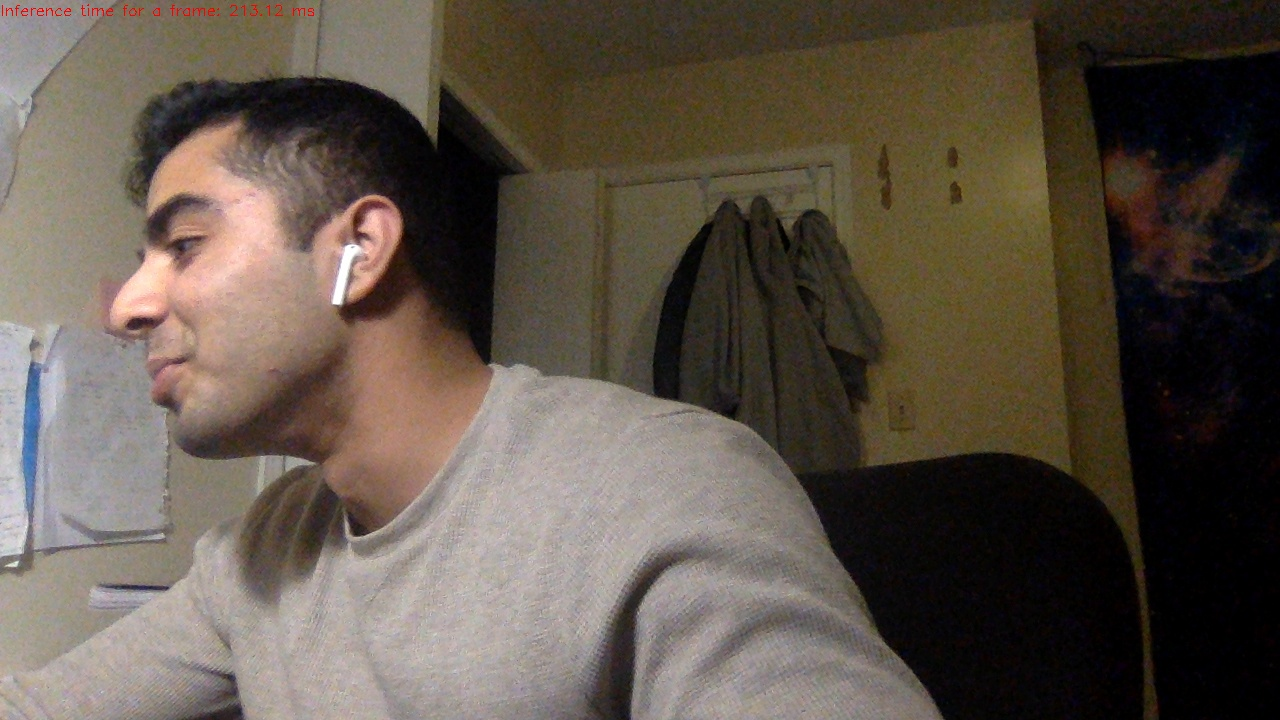
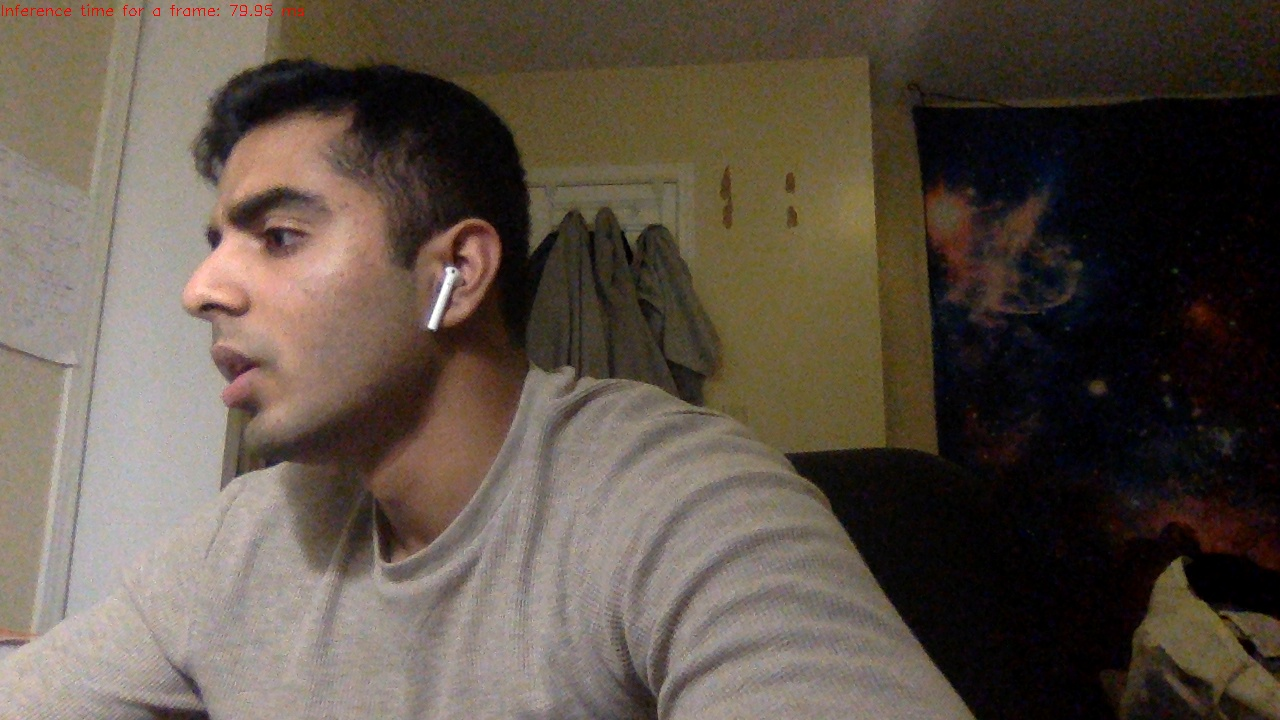
Fixing labels, Models works 100%

diff --git a/model/ModelOutput.cpp b/model/ModelOutput.cpp
@@ -6,64 +6,59 @@ using namespace std;
 
 ModelOutput::ModelOutput(/* args */)
 {
-    float confThreshold = 0.5;
-    float nmsThreshold = 0.4;
-    int inpWidth = 416;
-    int inpHeight = 416;
-    string classesFile = "./yolo/coco.names";
-    vector<string> classes;
+    confThreshold = 0.3;
+    nmsThreshold = 0.3;
+    inpWidth = 416;
+    inpHeight = 416;
+    classesFile = "/Users/msinghal/team9/model/yolo/coco.names";
+    classes;
 
     ifstream ifs(classesFile.c_str());
-    string line;
+    line;
     while (getline(ifs, line))
     {
         classes.push_back(line);
     }
-    string modelConfiguration = "/Users/msinghal/team9/model/yolo/yolov3-tiny.cfg";
-    string modelWeights = "/Users/msinghal/team9/model/yolo/yolov3-tiny.weights";
+    modelConfiguration = "/Users/msinghal/team9/model/yolo/yolov3-tiny.cfg";
+    modelWeights = "/Users/msinghal/team9/model/yolo/yolov3-tiny.weights";
 
     //Network
-    Net net = readNetFromDarknet(modelConfiguration, modelWeights);
+    net = readNetFromDarknet(modelConfiguration, modelWeights);
     net.setPreferableBackend(DNN_BACKEND_OPENCV);
     net.setPreferableTarget(DNN_TARGET_CPU);
-
-    string str, outputFile;
-    Mat frame, blob;
-
-    // while (waitKey(1) < 0)
-    // {
-    frame = imread("./test.jpg");
-    if (!(frame.empty()))
-    {
-        outputFile = "outFile.jpg";
-        blobFromImage(frame, blob, 1 / 255.0, CvSize(inpWidth, inpHeight), Scalar(0, 0, 0), true, false);
-        net.setInput(blob);
-        vector<Mat> outs;
-        net.forward(outs, ModelOutput::getOutputsNames(net));
-
-        ModelOutput::postprocess(frame, outs);
-
-        vector<double> layersTimes;
-        double freq = getTickFrequency() / 1000;
-        double t = net.getPerfProfile(layersTimes) / freq;
-        string label = format("Inference time for a frame: %.2f ms", t);
-        putText(frame, label, Point(0, 15), FONT_HERSHEY_SIMPLEX, 0.5, Scalar(0, 0, 255));
-
-        Mat detectedFrame;
-        frame.convertTo(detectedFrame, CV_8U);
-        imwrite(outputFile, detectedFrame);
-        cout << "Wrote model output to file" << endl;
-    }
-    // }
 }
 
 ModelOutput::~ModelOutput()
 {
 }
 
-// ModelOutput::run()
-// {
-// }
+void ModelOutput::run(Mat inpFrame, Mat *outFrame)
+{
+    string str, outputFile;
+    Mat frame, blob;
+    frame = inpFrame;
+    if (!(frame.empty()))
+    {
+        // outputFile = "outFile.jpg";
+        blobFromImage(frame, blob, 1 / 255.0, CvSize(this->inpWidth, this->inpHeight), Scalar(0, 0, 0), true, false);
+        net.setInput(blob);
+        vector<Mat> outs;
+        net.forward(outs, ModelOutput::getOutputsNames(this->net));
+
+        ModelOutput::postprocess(frame, outs);
+
+        vector<double> layersTimes;
+        double freq = getTickFrequency() / 1000;
+        double t = (this->net).getPerfProfile(layersTimes) / freq;
+        string label = format("Inference time for a frame: %.2f ms", t);
+        putText(frame, label, Point(0, 15), FONT_HERSHEY_SIMPLEX, 0.5, Scalar(0, 0, 255));
+
+        // Mat detectedFrame;
+        frame.convertTo(*outFrame, CV_8U);
+        // imwrite(outputFile, *outFrame);
+        cout << "Wrote model output to file" << endl;
+    }
+}
 
 vector<String> ModelOutput::getOutputsNames(const Net &net)
 {
@@ -71,10 +66,10 @@ vector<String> ModelOutput::getOutputsNames(const Net &net)
     if (names.empty())
     {
         //Get the indices of the output layers, i.e. the layers with unconnected outputs
-        vector<int> outLayers = net.getUnconnectedOutLayers();
+        vector<int> outLayers = (this->net).getUnconnectedOutLayers();
 
         //get the names of all the layers in the network
-        vector<String> layersNames = net.getLayerNames();
+        vector<string> layersNames = (this->net).getLayerNames();
 
         // Get the names of the output layers in names
         names.resize(outLayers.size());
@@ -105,7 +100,7 @@ void ModelOutput::postprocess(Mat &frame, const vector<Mat> &outs)
             double confidence;
             // Get the value and location of the maximum score
             minMaxLoc(scores, 0, &confidence, 0, &classIdPoint);
-            if (confidence > confThreshold)
+            if (confidence > this->confThreshold)
             {
                 int centerX = (int)(data[0] * frame.cols);
                 int centerY = (int)(data[1] * frame.rows);
@@ -124,7 +119,7 @@ void ModelOutput::postprocess(Mat &frame, const vector<Mat> &outs)
     // Perform non maximum suppression to eliminate redundant overlapping boxes with
     // lower confidences
     vector<int> indices;
-    NMSBoxes(boxes, confidences, confThreshold, nmsThreshold, indices);
+    NMSBoxes(boxes, confidences, this->confThreshold, this->nmsThreshold, indices);
     for (size_t i = 0; i < indices.size(); ++i)
     {
         int idx = indices[i];
@@ -141,10 +136,10 @@ void ModelOutput::drawPred(int classId, float conf, int left, int top, int right
 
     //Get the label for the class name and its confidence
     string label = format("%.2f", conf);
-    if (!classes.empty())
+    if (!(this->classes).empty())
     {
-        CV_Assert(classId < (int)classes.size());
-        label = classes[classId] + ":" + label;
+        CV_Assert(classId < (int)(this->classes).size());
+        label = (this->classes)[classId] + ":" + label;
     }
 
     //Display the label at the top of the bounding box

diff --git a/controller/FeedController.cpp b/controller/FeedController.cpp
@@ -23,6 +23,7 @@ FeedController::FeedController()
 {
     VideoCapture feedCV;
     Mat frame;
+    Mat outFrame;
 
     internalThread = new thread(&FeedController::updateFeedThread, this);
 }
@@ -36,7 +37,7 @@ FeedController::~FeedController()
 
 cv::Mat FeedController::getFeed()
 {
-    return this->frame;
+    return this->outFrame;
 }
 
 void FeedController::updateFeedThread()
@@ -45,6 +46,7 @@ void FeedController::updateFeedThread()
     if (!feedCV.open(0))
         exit(-1);
 
+    ModelOutput model = ModelOutput();
     for (;;)
     {
 
@@ -57,9 +59,8 @@ void FeedController::updateFeedThread()
         //std::cout << fps<< std::endl;
         //imshow("Say Cheese!", frame);
 
-        imwrite("test.jpg", this->frame);
-        ModelOutput model = ModelOutput();
-
+        // imwrite("test.jpg", this->frame);
+        model.run(this->frame, &(this->outFrame));
         //Mat image = imread("./test.jpg");
         //imshow("Say Onion!", image);
 

diff --git a/view/mainwindow.cpp b/view/mainwindow.cpp
@@ -164,11 +164,12 @@ void MainWindow::on_pushButton2_clicked()
         qApp->processEvents();
     }*/
 
+    FeedController client = FeedController();
+
     while (true)
     {
-        std::chrono::milliseconds timespan(33);
-        std::this_thread::sleep_for(timespan);
-        Mat frame = imread("/Users/msinghal/team9/outFile.jpg");
+
+        Mat frame = client.getFeed();
         //imshow("Say Onion!", image);
         QImage qimg(frame.data, frame.cols, frame.rows, frame.step, QImage::Format_RGB888);
 
@@ -185,5 +186,7 @@ void MainWindow::on_pushButton2_clicked()
         //image.setPixmap( QPixmap::fromImage(qimg.rgbSwapped()) );
         ui->label->setPixmap(image);
         qApp->processEvents();
+        std::chrono::milliseconds timespan(33);
+        std::this_thread::sleep_for(timespan);
     }
 }

diff --git a/model/ModelOutput.h b/model/ModelOutput.h
@@ -25,9 +25,18 @@ private:
   std::string classesFile;
   std::vector<std::string> classes;
 
+  std::string line;
+
+  std::string modelConfiguration;
+  std::string modelWeights;
+
+  //Network
+  cv::dnn::Net net;
+
 public:
   ModelOutput();
   ~ModelOutput();
+  void run(cv::Mat inpFrame, cv::Mat *outFrame);
   std::vector<std::string> getOutputsNames(const cv::dnn::Net &net);
   void postprocess(cv::Mat &frame, const std::vector<cv::Mat> &outs);
   void drawPred(int classId, float conf, int left, int top, int right, int bottom, cv::Mat &frame);

diff --git a/Main.cpp b/Main.cpp
@@ -33,8 +33,7 @@ int main(int argc, char *argv[])
     w.show();
 
     //Creates the camera feed window
-    FeedController client = FeedController();
-    client.getFeed();
+
     // ModelOutput model = ModelOutput();
 
     std::cout << "hey" << std::endl;

diff --git a/controller/FeedController.h b/controller/FeedController.h
@@ -8,6 +8,7 @@ private:
     cv::VideoCapture feedCV;
     std::thread *internalThread;
     cv::Mat frame;
+    cv::Mat outFrame;
 
 public:
     FeedController(/* args */);
